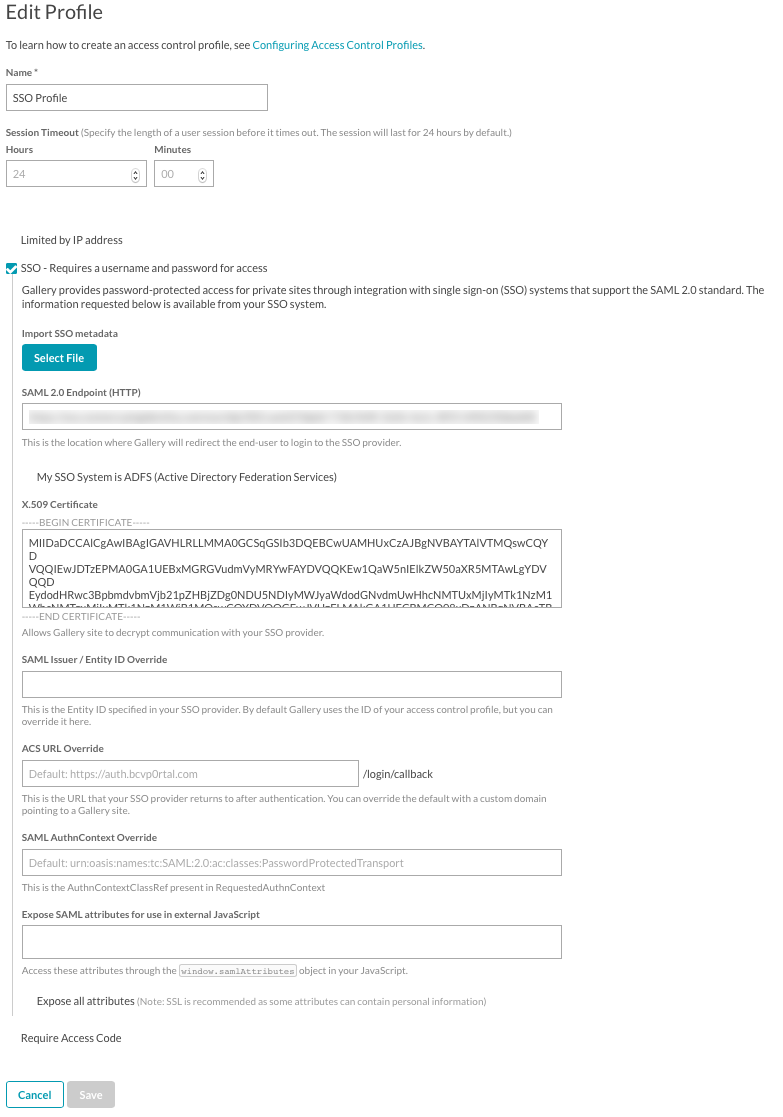
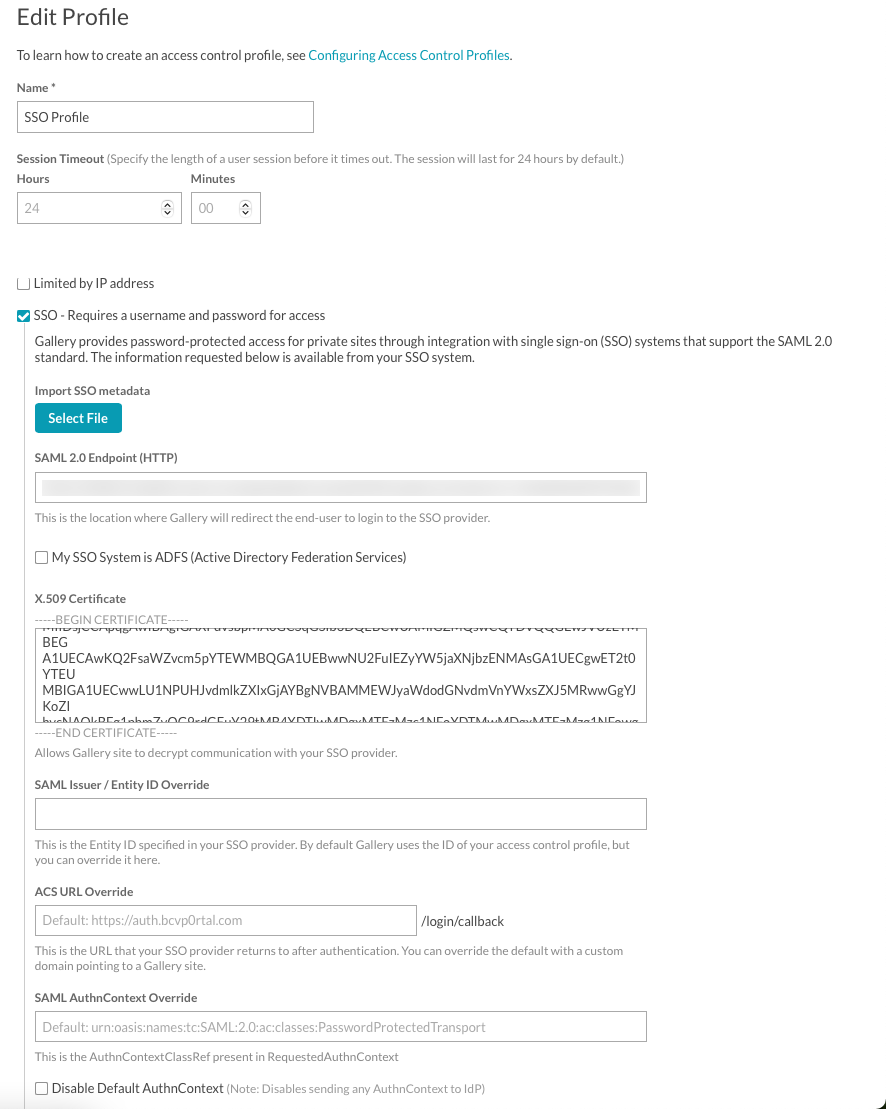
doc updates

Changed region(s): [[0.0, 0.0, 0.7356, 1.0], [0.6437, 0.2453, 0.9502, 0.2759], [0.705, 0.3066, 0.8889, 0.3372]]

diff --git a/_site/settings/configuring-access-control-profiles.html b/_site/settings/configuring-access-control-profiles.html
@@ -660,6 +660,7 @@ function doGTranslate(lang_pair) {if(lang_pair.value)lang_pair=lang_pair.value;i
       <li>(Optional) Enter the <strong>SAML Issuer / Entity ID Override</strong>. Enter a value here to optionally override the SAML issuer.</li>
       <li>(Optional) Enter the<strong> ACS URL Override</strong>. Enter a value here to optionally override the ACS URL.</li>
       <li>(Optional) Enter the <strong>SAML AuthnContext Override</strong>. Enter a value here to optionally override the SAML AuthnContext.</li>
+      <li>(Optional) Choose to disable the <strong>Default AuthnContext</strong>. By default, for SSO profiles, Gallery will send PasswordProtectedTransport as SAML authentication context. Sometimes this is not supported by the Identity providers. When this option is checked, Gallery will not send the the authentication context request.</li>
       <li>(Optional) Enter any SAML attributes for that you want passed to your external JavaScript.</li>
       <li>(Optional) Check <strong>Expose all attributes</strong> to expose all of the SAML attributes for use in external JavaScript.</li>
       <li>Click <strong>Save</strong>.</li>
@@ -734,7 +735,7 @@ function doGTranslate(lang_pair) {if(lang_pair.value)lang_pair=lang_pair.value;i
 
 <hr>
 <div class="last-updated">
-  Page last updated on 12 Feb 2021
+  Page last updated on 12 Apr 2021
 </div>
 
 

diff --git a/settings/configuring-access-control-profiles.html b/settings/configuring-access-control-profiles.html
@@ -84,6 +84,7 @@ parent: Gallery Settings
       <li>(Optional) Enter the <strong>SAML Issuer / Entity ID Override</strong>. Enter a value here to optionally override the SAML issuer.</li>
       <li>(Optional) Enter the<strong> ACS URL Override</strong>. Enter a value here to optionally override the ACS URL.</li>
       <li>(Optional) Enter the <strong>SAML AuthnContext Override</strong>. Enter a value here to optionally override the SAML AuthnContext.</li>
+      <li>(Optional) Choose to disable the <strong>Default AuthnContext</strong>. By default, for SSO profiles, Gallery will send PasswordProtectedTransport as SAML authentication context. Sometimes this is not supported by the Identity providers. When this option is checked, Gallery will not send the the authentication context request.</li>
       <li>(Optional) Enter any SAML attributes for that you want passed to your external JavaScript.</li>
       <li>(Optional) Check <strong>Expose all attributes</strong> to expose all of the SAML attributes for use in external JavaScript.</li>
       <li>Click <strong>Save</strong>.</li>
